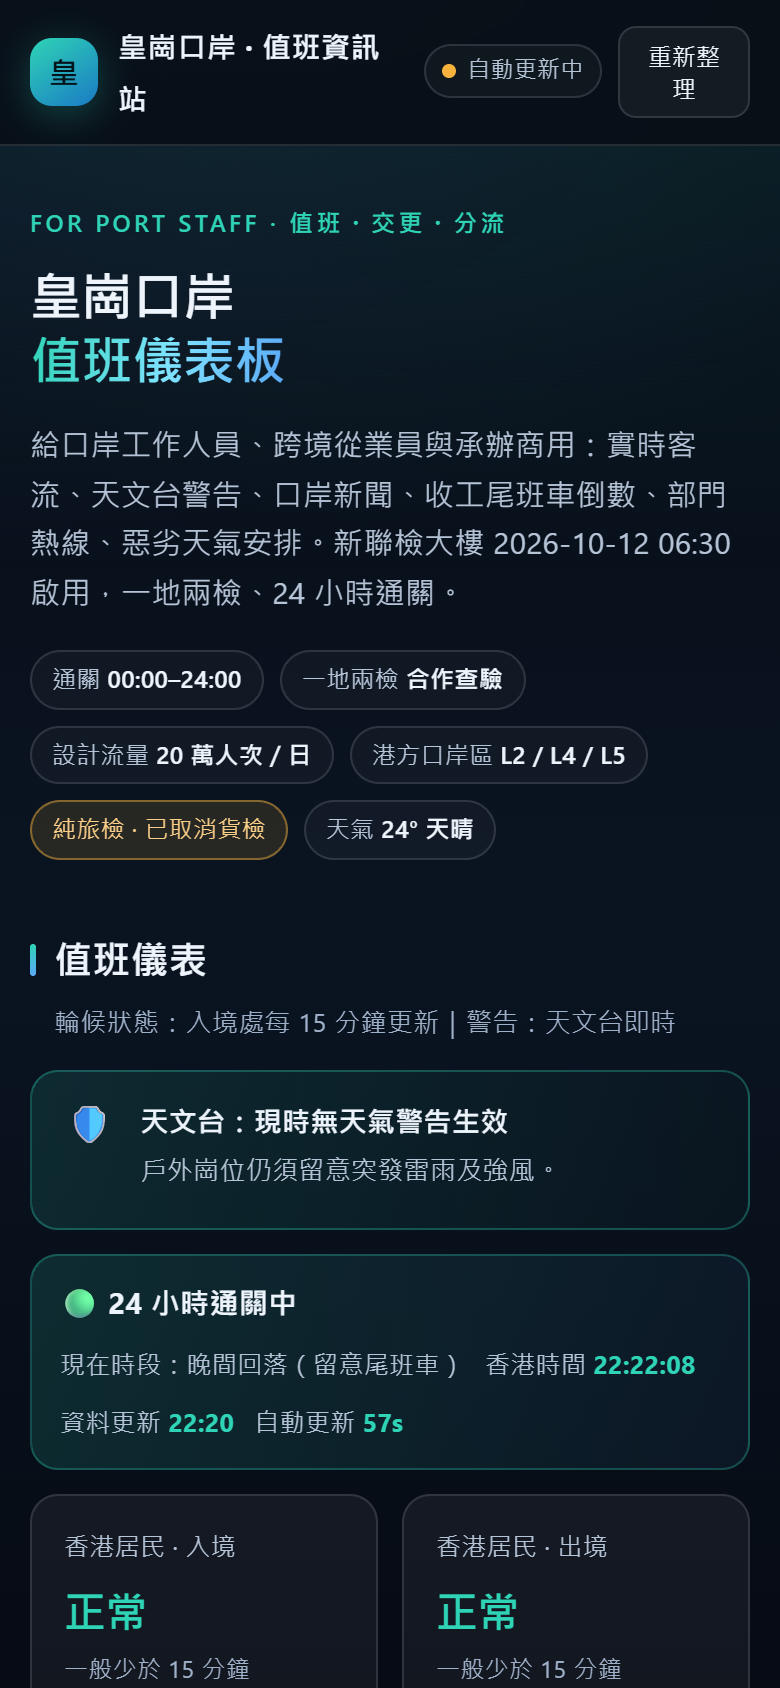
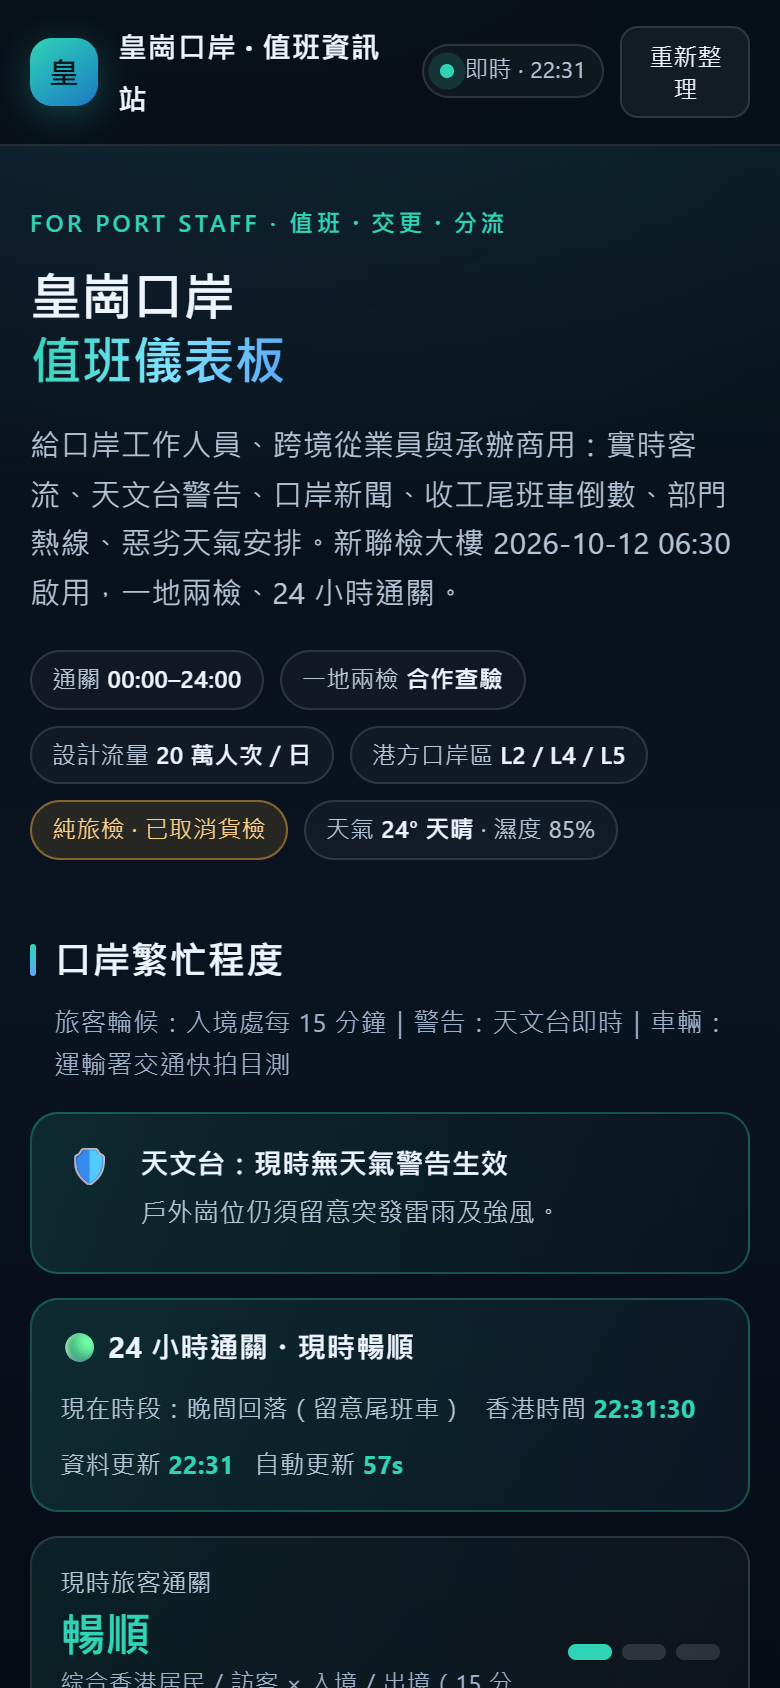
版面：繁忙程度置頂＋總覽橫幅、即時車輛排隊（交通快拍）、右側突發新聞欄

diff --git a/index.html b/index.html
@@ -161,6 +161,49 @@
     background:#0d1a2a;border:1px solid var(--line);padding:9px 16px;border-radius:10px;font-size:13px;transition:.25s;z-index:99}
   .toast.show{opacity:1;transform:translateX(-50%) translateY(0)}
 
+  /* 繁忙程度：主欄 + 突發新聞側欄 */
+  .dash-grid{display:grid;grid-template-columns:minmax(0,1.6fr) minmax(0,1fr);gap:14px;align-items:start}
+  .dash-main{min-width:0;display:grid;gap:12px}
+  .dash-side{min-width:0;position:sticky;top:72px}
+  .agg{display:flex;align-items:center;justify-content:space-between;gap:16px;
+    background:linear-gradient(100deg,rgba(47,212,182,.10),rgba(255,255,255,.03));
+    border:1px solid var(--line);border-radius:14px;padding:14px 18px}
+  .agg-lab{font-size:12.5px;color:var(--mut)}
+  .agg-val{font-size:27px;font-weight:800;letter-spacing:-.02em;line-height:1.15;margin:2px 0}
+  .agg-val.s0{color:var(--teal)} .agg-val.s1{color:var(--amber)} .agg-val.s2{color:var(--red)}
+  .agg-hint{font-size:12px;color:var(--mut2)}
+  .agg-meter{display:flex;gap:5px;flex:0 0 auto}
+  .agg-meter span{width:30px;height:9px;border-radius:5px;background:rgba(255,255,255,.13)}
+  .agg-meter span.on0{background:var(--teal)} .agg-meter span.on1{background:var(--amber)}
+  .agg-meter span.on2{background:var(--red)}
+  .h3{font-size:14.5px;margin:8px 0 0;color:#fff}
+  .cam-row{display:grid;grid-template-columns:repeat(3,1fr);gap:10px}
+  .cam-card{background:var(--card2);border:1px solid var(--line);border-radius:12px;overflow:hidden}
+  .cam-card img{display:block;width:100%;height:auto;aspect-ratio:4/3;object-fit:cover;background:#0b1420}
+  .cam-t{font-size:12.5px;padding:8px 10px 1px;color:#fff;font-weight:600}
+  .cam-s{font-size:11.5px;padding:0 10px 9px;color:var(--mut2)}
+  .note{font-size:12.3px;color:var(--mut2);margin:0;line-height:1.7}
+  .note b{color:var(--mut)}
+  .side-panel{padding:14px 16px}
+  .side-head{display:flex;align-items:baseline;justify-content:space-between;gap:8px;margin-bottom:4px}
+  .side-head h3{margin:0;font-size:14.5px;font-weight:700}
+  .side-sub{font-size:11.5px;color:var(--mut2)}
+  .side-foot{font-size:11.8px;color:var(--mut2);margin-top:9px;padding-top:9px;border-top:1px solid var(--line)}
+  .feed .empty{padding:14px 0;color:var(--mut2);font-size:13px}
+  .feed .brk-tag{display:inline-block;font-size:10.5px;font-weight:700;padding:0 6px;border-radius:5px;
+    background:rgba(242,96,79,.25);border:1px solid rgba(242,96,79,.5);color:#ffd3cc;margin-right:6px;vertical-align:1px}
+
+  @media(max-width:900px){
+    .dash-grid{grid-template-columns:1fr}
+    .dash-side{position:static}
+    .cam-row{grid-template-columns:1fr 1fr}
+  }
+  @media(max-width:560px){
+    .cam-row{grid-template-columns:1fr 1fr}
+    .agg{padding:12px 14px}
+    .agg-val{font-size:23px}
+    .agg-meter span{width:22px;height:8px}
+  }
   @media(max-width:900px){
     .status-grid{grid-template-columns:repeat(2,1fr)}
     .duty-grid{grid-template-columns:1fr}
@@ -250,10 +293,10 @@
     </div>
   </div>
 
-  <!-- 儀表 -->
+  <!-- 儀表：繁忙程度（最前） -->
   <section id="dash">
-    <h2>值班儀表</h2>
-    <p class="sub">輪候狀態：入境處每 15 分鐘更新｜警告：天文台即時</p>
+    <h2>口岸繁忙程度</h2>
+    <p class="sub">旅客輪候：入境處每 15 分鐘｜警告：天文台即時｜車輛：運輸署交通快拍目測</p>
 
     <div class="warnbar" id="warnbar">
       <div class="ico" id="warnIco">🛡</div>
@@ -265,7 +308,7 @@
     </div>
 
     <div class="openbar">
-      <div class="big">🟢 24 小時通關中</div>
+      <div class="big" id="aggBig">🟢 24 小時通關中</div>
       <div class="sep"></div>
       <div class="small" id="phaseTxt">現在時段：—</div>
       <div class="sep"></div>
@@ -276,11 +319,52 @@
       <div class="small">自動更新 <b class="t" id="autoLeft">60s</b></div>
     </div>
 
-    <div class="status-grid">
-      <div class="stat st-na" id="s-r-in"><div class="lab">香港居民 · 入境</div><div class="val">—</div><div class="hint">等待數據</div></div>
-      <div class="stat st-na" id="s-r-out"><div class="lab">香港居民 · 出境</div><div class="val">—</div><div class="hint">等待數據</div></div>
-      <div class="stat st-na" id="s-v-in"><div class="lab">訪港旅客 · 入境</div><div class="val">—</div><div class="hint">等待數據</div></div>
-      <div class="stat st-na" id="s-v-out"><div class="lab">訪港旅客 · 出境</div><div class="val">—</div><div class="hint">等待數據</div></div>
+    <div class="dash-grid">
+      <div class="dash-main">
+        <div class="agg" id="aggBanner">
+          <div class="agg-l">
+            <div class="agg-lab">現時旅客通關</div>
+            <div class="agg-val" id="aggVal">—</div>
+            <div class="agg-hint" id="aggHint">綜合香港居民／訪客 × 入境／出境</div>
+          </div>
+          <div class="agg-meter" id="aggMeter"><span></span><span></span><span></span></div>
+        </div>
+
+        <div class="status-grid">
+          <div class="stat st-na" id="s-r-in"><div class="lab">香港居民 · 入境</div><div class="val">—</div><div class="hint">等待數據</div></div>
+          <div class="stat st-na" id="s-r-out"><div class="lab">香港居民 · 出境</div><div class="val">—</div><div class="hint">等待數據</div></div>
+          <div class="stat st-na" id="s-v-in"><div class="lab">訪港旅客 · 入境</div><div class="val">—</div><div class="hint">等待數據</div></div>
+          <div class="stat st-na" id="s-v-out"><div class="lab">訪港旅客 · 出境</div><div class="val">—</div><div class="hint">等待數據</div></div>
+        </div>
+
+        <h3 class="h3">即時車輛排隊（交通快拍）</h3>
+        <div class="cam-row" id="camRow">
+          <div class="cam-card"><div class="cam-t">載入中…</div></div>
+        </div>
+        <p class="note">
+          入境處<b>只公布旅客輪候，沒有車輛排隊數據</b>。以下為運輸署交通快拍（每 2 分鐘更新），
+          用來目測新深路迴旋處、新田公路一帶車龍；口岸內車檢通道的實際等候以現場為準。
+          高峰參考：傳媒報道新皇崗口岸私家車高峰輪候約 45–50 分鐘。
+        </p>
+      </div>
+
+      <aside class="dash-side">
+        <div class="panel side-panel">
+          <div class="side-head">
+            <h3>突發・口岸新聞</h3>
+            <span class="side-sub" id="feedCount">近 7 日</span>
+          </div>
+          <div class="feed" id="feed">
+            <div class="empty">載入中…</div>
+          </div>
+          <div class="side-foot">
+            <a href="https://www.info.gov.hk/gia/general/ctoday.htm" target="_blank" rel="noopener">新聞公報</a> ·
+            <a href="https://www.td.gov.hk/tc/traffic_notices/index.html" target="_blank" rel="noopener">交通通告</a> ·
+            <a href="https://www.weather.gov.hk/tc/wxinfo/index.htm" target="_blank" rel="noopener">天文台</a> ·
+            <a href="https://ka.sz.gov.cn/" target="_blank" rel="noopener">深圳口岸辦</a>
+          </div>
+        </div>
+      </aside>
     </div>
   </section>
 
@@ -305,24 +389,6 @@
           深宵收工：九巴 <b>NB73</b>（沙田）、小巴 <b>79S</b>（天水圍）／<b>N44B</b>（屯門）／<b>616S</b>（旺角）通宵行駛；深圳地鐵 7 號線尾班約 23:23／23:38（節假日延至 00:23／00:38）。
         </p>
       </div>
-    </div>
-  </section>
-
-  <!-- 新聞 -->
-  <section id="news">
-    <h2>口岸新聞</h2>
-    <p class="sub">近 7 日與皇崗／通關相關報道，標題版權屬原媒體；點擊前往原文</p>
-    <div class="panel" style="padding:6px 16px">
-      <div class="feed" id="feed">
-        <div style="padding:14px 0;color:var(--mut2);font-size:13px">載入中…</div>
-      </div>
-    </div>
-    <div class="callout">
-      <b>官方渠道</b>（現場安排以部門指示為準）：
-      <a href="https://www.info.gov.hk/gia/general/ctoday.htm" target="_blank" rel="noopener">政府新聞公報</a>、
-      <a href="https://www.weather.gov.hk/tc/wxinfo/index.htm" target="_blank" rel="noopener">天文台警告</a>、
-      <a href="https://www.td.gov.hk/tc/traffic_notices/index.html" target="_blank" rel="noopener">運輸署交通通告</a>、
-      <a href="https://ka.sz.gov.cn/" target="_blank" rel="noopener">深圳市口岸辦</a>
     </div>
   </section>
 
@@ -634,20 +700,73 @@
     $("warnTags").innerHTML = w.map(function(x){ return '<span class="wtag">'+x.title+'</span>'; }).join("");
   }
 
+  var BRK = ["塞","擠","車龍","意外","事故","突發","停駛","停運","封閉","故障","火警","延誤","迫爆","人潮","打架"];
+  var CAMS = [
+    {k:"BC103F",  n:"新深路迴旋處",   d:"通往落馬洲／皇崗口岸主通道"},
+    {k:"TDS91071", n:"新田公路（南行）", d:"近新田交匯處，返口岸方向"},
+    {k:"TDS90086", n:"粉嶺公路（東行）", d:"近新田交匯處"}
+  ];
+
+  function buildCameras(){
+    var t = Date.now();
+    $("camRow").innerHTML = CAMS.map(function(c){
+      return '<div class="cam-card"><img id="cam-'+c.k+'" alt="'+c.n+' 交通快拍" loading="lazy" '
+           + 'src="https://tdcctv.data.one.gov.hk/'+c.k+'.JPG?t='+t+'">'
+           + '<div class="cam-t">'+c.n+'</div>'
+           + '<div class="cam-s">'+c.d+' · 每 2 分鐘更新</div></div>';
+    }).join("");
+  }
+
+  function refreshCameras(){
+    var t = Date.now();
+    CAMS.forEach(function(c){
+      var img = $("cam-"+c.k);
+      if(img) img.src = "https://tdcctv.data.one.gov.hk/"+c.k+".JPG?t="+t;
+    });
+  }
+
+  function renderAgg(d){
+    var codes = [];
+    if(d && d.queue){ codes.push(d.queue.arr, d.queue.dep); }
+    if(d && d.queue_visitor){ codes.push(d.queue_visitor.arr, d.queue_visitor.dep); }
+    codes = codes.filter(function(c){ return c===0||c===1||c===2; });
+    var bars = $("aggMeter").children, i;
+    for(i=0;i<bars.length;i++) bars[i].className = "";
+    if(!codes.length){
+      $("aggVal").textContent = "—";
+      $("aggVal").className = "agg-val";
+      $("aggHint").textContent = "暫無輪候數據（入境處可能維護中）";
+      return;
+    }
+    var worst = Math.max.apply(null, codes);
+    $("aggVal").className = "agg-val s"+worst;
+    $("aggVal").textContent = worst===2 ? "非常繁忙" : worst===1 ? "繁忙" : "暢順";
+    $("aggHint").textContent = "綜合香港居民／訪客 × 入境／出境（15 分鐘更新）";
+    $("aggBig").textContent = (worst===2?"🔴":worst===1?"🟠":"🟢") + " 24 小時通關・現時" + (worst===2?"非常繁忙":worst===1?"繁忙":"暢順");
+    if(worst===0){ bars[0].className = "on0"; }
+    else if(worst===1){ bars[0].className="on1"; bars[1].className="on1"; }
+    else { bars[0].className="on2"; bars[1].className="on2"; bars[2].className="on2"; }
+  }
+
   function renderNews(items){
     var f = $("feed");
     if(!items || !items.length){
-      f.innerHTML = '<div style="padding:14px 0;color:var(--mut2);font-size:13px">近 7 日暫無相關報道。</div>';
+      f.innerHTML = '<div class="empty">近 7 日暫無相關報道。</div>';
+      $("feedCount").textContent = "近 7 日";
       return;
     }
+    var brk = 0;
     f.innerHTML = items.map(function(n){
+      var hot = BRK.some(function(k){ return n.title.indexOf(k) >= 0; });
+      if(hot) brk++;
       var meta = [];
       if(n.date) meta.push(n.date);
       if(n.source) meta.push("<b>"+n.source+"</b>");
       return '<a href="'+(n.link||"#")+'" target="_blank" rel="noopener">'
-           + '<div class="h">'+n.title+'</div>'
+           + '<div class="h">'+(hot?'<span class="brk-tag">突發</span>':'')+n.title+'</div>'
            + '<div class="m">'+meta.join(" · ")+'</div></a>';
     }).join("");
+    $("feedCount").textContent = "近 7 日 " + items.length + " 條" + (brk ? "・" + brk + " 條突發" : "");
   }
 
   function renderTips(tips){
@@ -702,6 +821,7 @@
       paintCard($("s-v-out"), d.queue_visitor.dep, HINT_V);
     }
     if(d && d.others) renderOthers(d.others);
+    renderAgg(d);
     if(d && d.generated_at){
       var t = new Date(d.generated_at);
       $("updated").textContent = pad(t.getHours())+":"+pad(t.getMinutes());
@@ -793,6 +913,7 @@
   $("refreshBtn").addEventListener("click", function(){ pullLive(true); });
 
   tick(); setInterval(tick, 1000);
+  buildCameras(); setInterval(refreshCameras, 120000);
   renderCountdowns(); setInterval(renderCountdowns, 30000);
   if(DATA){ renderAll(DATA); }
   else {

diff --git a/data.js b/data.js
@@ -130,7 +130,7 @@ window.HGP_DATA = {
   },
   {
    "tag": "車流",
-   "text": "近 36 小時有 6 篇報道提及口岸擠塞／高峰：上落客區與 L2 交匯處屬樽頸位，建議按現場情況提早分流。",
+   "text": "近 36 小時有 7 篇報道提及口岸擠塞／高峰：上落客區與 L2 交匯處屬樽頸位，建議按現場情況提早分流。",
    "level": "warn"
   },
   {

diff --git a/push_update.py b/push_update.py
@@ -1,0 +1,75 @@
+#!/usr/bin/env python3
+# -*- coding: utf-8 -*-
+"""
+只做推送：等 device 授權 → git push（token 只在指令參數內，不寫入 .git/config）→ 驗證公開網址
+環境變數: DEVICE_CODE, MARKER（可選，驗證頁面是否含此字串）
+"""
+import base64, json, os, subprocess, sys, time, urllib.parse, urllib.request
+
+CID = "178c6fc778ccc68e1d6a"
+DEVICE_CODE = os.environ.get("DEVICE_CODE", "")
+MARKER = os.environ.get("MARKER", "即時車輛排隊")
+BASE = os.path.dirname(os.path.abspath(__file__))
+
+
+def log(*a):
+    print(*a, flush=True)
+
+
+def wait_for_token():
+    log("[1/3] 等授權…")
+    deadline = time.time() + 900
+    while time.time() < deadline:
+        body = urllib.parse.urlencode({
+            "client_id": CID, "device_code": DEVICE_CODE,
+            "grant_type": "urn:ietf:params:oauth:grant-type:device_code"}).encode()
+        r = urllib.request.Request("https://github.com/login/oauth/access_token", data=body,
+                                   headers={"Accept": "application/json"})
+        with urllib.request.urlopen(r, timeout=25) as resp:
+            j = json.loads(resp.read().decode())
+        if j.get("access_token"):
+            log("[1/3] ✓ 已取得授權")
+            return j["access_token"]
+        err = j.get("error")
+        if err == "authorization_pending":
+            time.sleep(5); continue
+        if err == "slow_down":
+            time.sleep(10); continue
+        raise SystemExit("授權失敗: %s" % err)
+    raise SystemExit("授權超時")
+
+
+def main():
+    token = wait_for_token()
+    auth = base64.b64encode(("x-access-token:" + token).encode()).decode()
+    log("[2/3] 推送 main")
+    r = subprocess.run(
+        ["git", "-c", "credential.helper=", "-c", "http.extraheader=Authorization: Basic " + auth,
+         "push", "origin", "main"],
+        cwd=BASE, capture_output=True, text=True, encoding="utf-8", errors="ignore")
+    log("      " + ((r.stdout or "") + (r.stderr or "")).strip()[-280:])
+    if r.returncode != 0:
+        raise SystemExit("推送失敗")
+
+    log("[3/3] 等 Pages 重新建置並驗證內容…")
+    url = "https://victoryuen99999-commits.github.io/huanggang-port/"
+    for _ in range(24):
+        try:
+            req = urllib.request.Request(url + "?cb=" + str(int(time.time())),
+                                         headers={"User-Agent": "Mozilla/5.0", "Cache-Control": "no-cache"})
+            with urllib.request.urlopen(req, timeout=20) as resp:
+                html = resp.read().decode("utf-8", "ignore")
+                if MARKER in html:
+                    log("      ✓ 已更新，含『%s』" % MARKER)
+                    print("RESULT_URL=" + url, flush=True)
+                    return 0
+        except Exception as e:                          # noqa: BLE001
+            log("      …", str(e)[:60])
+        time.sleep(15)
+    log("      ! 仍未見新內容（Pages 建置可能延遲）")
+    print("RESULT_URL=" + url, flush=True)
+    return 0
+
+
+if __name__ == "__main__":
+    sys.exit(main())
